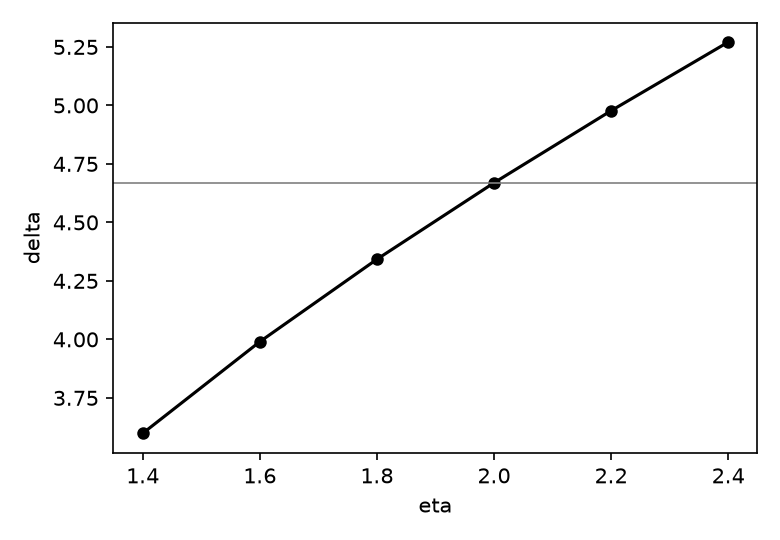
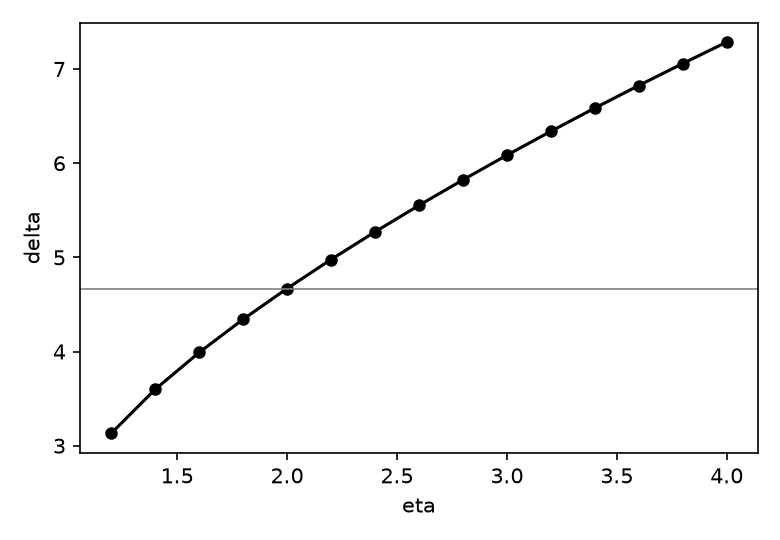
Creators: make the delta(eta) sweep converge across the full eta range
The Newton-Raphson iterates escaped the map's valid parameter range for
eta outside [1.4, 2.4], NaN-ing silently; the figure now spans eta 1.2-4
as the chapter prose requires.

diff --git a/creators/python/disc1d/fig_universality.py b/creators/python/disc1d/fig_universality.py
@@ -56,28 +56,85 @@ for f, rc, rmin, amax, name in [
 
 # -- delta(eta) via Newton-Raphson on superstable orbits ---------------------
 def superstable_r(f, df, p_max, r_start):
-    """r_p of superstable 2^p cycles via Newton-Raphson from x0 = 1/2."""
-    rc = {}
-    for p in range(p_max + 1):
+    """r_p of superstable 2^p cycles via Newton-Raphson from x0 = 1/2.
+
+    f(x, r) maxes out at f(0.5, r) = r, so the map only stays inside [0, 1]
+    while r < 1; a Newton step that overshoots past r = 1 sends the orbit
+    outside [0, 1], where |2x-1|^eta explodes under further iteration and
+    NumPy quietly hands back inf/NaN.  Also, every already-found r_q (q < p)
+    is *trivially* a root of the period-2**p condition too (a period-q orbit
+    repeats after any multiple of q steps), so a poorly chosen starting
+    guess for small p can converge right back onto it instead of the new,
+    higher-period root.  We fix both: every r_p is known a priori to lie in
+    (r_{p-1}, 1), so (a) low periods (p < 3, where the extrapolated Newton
+    guess isn't available yet) are located by bracketing + bisection on
+    that interval instead of guessing a fixed start, and (b) every Newton
+    step is clamped below 1, with a bracket/bisect fallback if the clamped
+    iteration still fails to converge inside (r_{p-1}, 1).
+    """
+    def orbit_end(m, r):
+        x = 0.5
+        for _ in range(m):
+            x = f(x, r)
+        return x
+
+    def bracket_and_bisect(m, lo, hi, n_scan=2000, refine=2):
+        # Two passes of a vectorized scan for a sign change of g(r) =
+        # X[m](r) - 0.5, each narrowing onto the bracket found by the last,
+        # to get enough resolution even when consecutive r_p are very close.
+        a, b = lo, hi
+        for stage in range(refine):
+            cand = np.linspace(a, b, n_scan)
+            if stage == 0:
+                cand = cand[1:]  # drop r=lo itself: a trivial root
+            with np.errstate(all="ignore"):
+                x = np.full_like(cand, 0.5)
+                for _ in range(m):
+                    x = f(x, cand)
+                    x = np.clip(x, -1e3, 1e3)  # keep finite for sign()
+                g = np.nan_to_num(x - 0.5, nan=0.0)
+            idx = np.where(np.diff(np.sign(g)) != 0)[0]
+            if len(idx) == 0:
+                return None
+            a, b = cand[idx[0]], cand[idx[0] + 1]
+        ga = orbit_end(m, a) - 0.5
+        for _ in range(80):
+            mid = 0.5 * (a + b)
+            gm = orbit_end(m, mid) - 0.5
+            a, ga, b = (mid, gm, b) if np.sign(gm) == np.sign(ga) else (a, ga, mid)
+        return 0.5 * (a + b)
+
+    rc = {0: 0.5}  # f(0.5, r) = r identically, so r_0 = 0.5 for every eta
+    for p in range(1, p_max + 1):
         m = 2**p
-        if p >= 3:
-            delta = (rc[p - 2] - rc[p - 3]) / (rc[p - 1] - rc[p - 2])
-            r = rc[p - 1] + (rc[p - 1] - rc[p - 2]) / delta
+        lo, hi = rc[p - 1], 1.0
+        if p < 3:
+            r, converged = None, False
         else:
-            r = r_start
-        for _ in range(100):
-            X = np.zeros(m + 1)
-            X[0] = 0.5
-            for n in range(m):
-                X[n + 1] = f(X[n], r)
-            dg = 0.0
-            for n in range(1, m + 1):
-                dg = X[n] / r + df(X[n - 1], r) * dg
-            rnew = r - (X[m] - X[0]) / dg
-            if abs(rnew - r) < 1e-13:
-                r = rnew
-                break
-            r = rnew
+            delta = (rc[p - 2] - rc[p - 3]) / (rc[p - 1] - rc[p - 2])
+            r = min(rc[p - 1] + (rc[p - 1] - rc[p - 2]) / delta, hi - 1e-13)
+            converged = False
+            with np.errstate(all="ignore"):
+                for _ in range(100):
+                    X = np.zeros(m + 1)
+                    X[0] = 0.5
+                    for n in range(m):
+                        X[n + 1] = f(X[n], r)
+                    dg = 0.0
+                    for n in range(1, m + 1):
+                        dg = X[n] / r + df(X[n - 1], r) * dg
+                    if dg == 0 or not np.isfinite(dg) or not np.isfinite(X[m]):
+                        break
+                    rnew = min(r - (X[m] - X[0]) / dg, hi - 1e-13)
+                    if abs(rnew - r) < 1e-13:
+                        r, converged = rnew, True
+                        break
+                    r = rnew
+            converged = converged and lo < r < hi
+        if not converged:
+            r = bracket_and_bisect(m, lo, hi)
+            if r is None:
+                raise FloatingPointError(f"p={p}: could not bracket a root")
         rc[p] = r
     return rc
 
@@ -91,8 +148,9 @@ for eta in np.arange(1.2, 4.01, 0.2):
         rc = superstable_r(f, df, 8, 0.9)
         deltas.append((rc[6] - rc[5]) / (rc[7] - rc[6]))
         etas.append(eta)
-    except (ZeroDivisionError, FloatingPointError, OverflowError):
-        pass
+    except (ZeroDivisionError, FloatingPointError, OverflowError) as exc:
+        print(f"fig_universality: dropping eta={eta:.2f} "
+              f"(superstable_r did not converge: {exc})")
 
 plt.figure(figsize=(5.2, 3.6))
 plt.plot(etas, deltas, "ko-", markersize=5)

diff --git a/docs/superpowers/plans/2026-08-11-disc1d-chapter.md b/docs/superpowers/plans/2026-08-11-disc1d-chapter.md
@@ -1011,28 +1011,85 @@ for f, rc, rmin, amax, name in [
 
 # -- delta(eta) via Newton-Raphson on superstable orbits ---------------------
 def superstable_r(f, df, p_max, r_start):
-    """r_p of superstable 2^p cycles via Newton-Raphson from x0 = 1/2."""
-    rc = {}
-    for p in range(p_max + 1):
+    """r_p of superstable 2^p cycles via Newton-Raphson from x0 = 1/2.
+
+    f(x, r) maxes out at f(0.5, r) = r, so the map only stays inside [0, 1]
+    while r < 1; a Newton step that overshoots past r = 1 sends the orbit
+    outside [0, 1], where |2x-1|^eta explodes under further iteration and
+    NumPy quietly hands back inf/NaN.  Also, every already-found r_q (q < p)
+    is *trivially* a root of the period-2**p condition too (a period-q orbit
+    repeats after any multiple of q steps), so a poorly chosen starting
+    guess for small p can converge right back onto it instead of the new,
+    higher-period root.  We fix both: every r_p is known a priori to lie in
+    (r_{p-1}, 1), so (a) low periods (p < 3, where the extrapolated Newton
+    guess isn't available yet) are located by bracketing + bisection on
+    that interval instead of guessing a fixed start, and (b) every Newton
+    step is clamped below 1, with a bracket/bisect fallback if the clamped
+    iteration still fails to converge inside (r_{p-1}, 1).
+    """
+    def orbit_end(m, r):
+        x = 0.5
+        for _ in range(m):
+            x = f(x, r)
+        return x
+
+    def bracket_and_bisect(m, lo, hi, n_scan=2000, refine=2):
+        # Two passes of a vectorized scan for a sign change of g(r) =
+        # X[m](r) - 0.5, each narrowing onto the bracket found by the last,
+        # to get enough resolution even when consecutive r_p are very close.
+        a, b = lo, hi
+        for stage in range(refine):
+            cand = np.linspace(a, b, n_scan)
+            if stage == 0:
+                cand = cand[1:]  # drop r=lo itself: a trivial root
+            with np.errstate(all="ignore"):
+                x = np.full_like(cand, 0.5)
+                for _ in range(m):
+                    x = f(x, cand)
+                    x = np.clip(x, -1e3, 1e3)  # keep finite for sign()
+                g = np.nan_to_num(x - 0.5, nan=0.0)
+            idx = np.where(np.diff(np.sign(g)) != 0)[0]
+            if len(idx) == 0:
+                return None
+            a, b = cand[idx[0]], cand[idx[0] + 1]
+        ga = orbit_end(m, a) - 0.5
+        for _ in range(80):
+            mid = 0.5 * (a + b)
+            gm = orbit_end(m, mid) - 0.5
+            a, ga, b = (mid, gm, b) if np.sign(gm) == np.sign(ga) else (a, ga, mid)
+        return 0.5 * (a + b)
+
+    rc = {0: 0.5}  # f(0.5, r) = r identically, so r_0 = 0.5 for every eta
+    for p in range(1, p_max + 1):
         m = 2**p
-        if p >= 3:
-            delta = (rc[p - 2] - rc[p - 3]) / (rc[p - 1] - rc[p - 2])
-            r = rc[p - 1] + (rc[p - 1] - rc[p - 2]) / delta
+        lo, hi = rc[p - 1], 1.0
+        if p < 3:
+            r, converged = None, False
         else:
-            r = r_start
-        for _ in range(100):
-            X = np.zeros(m + 1)
-            X[0] = 0.5
-            for n in range(m):
-                X[n + 1] = f(X[n], r)
-            dg = 0.0
-            for n in range(1, m + 1):
-                dg = X[n] / r + df(X[n - 1], r) * dg
-            rnew = r - (X[m] - X[0]) / dg
-            if abs(rnew - r) < 1e-13:
-                r = rnew
-                break
-            r = rnew
+            delta = (rc[p - 2] - rc[p - 3]) / (rc[p - 1] - rc[p - 2])
+            r = min(rc[p - 1] + (rc[p - 1] - rc[p - 2]) / delta, hi - 1e-13)
+            converged = False
+            with np.errstate(all="ignore"):
+                for _ in range(100):
+                    X = np.zeros(m + 1)
+                    X[0] = 0.5
+                    for n in range(m):
+                        X[n + 1] = f(X[n], r)
+                    dg = 0.0
+                    for n in range(1, m + 1):
+                        dg = X[n] / r + df(X[n - 1], r) * dg
+                    if dg == 0 or not np.isfinite(dg) or not np.isfinite(X[m]):
+                        break
+                    rnew = min(r - (X[m] - X[0]) / dg, hi - 1e-13)
+                    if abs(rnew - r) < 1e-13:
+                        r, converged = rnew, True
+                        break
+                    r = rnew
+            converged = converged and lo < r < hi
+        if not converged:
+            r = bracket_and_bisect(m, lo, hi)
+            if r is None:
+                raise FloatingPointError(f"p={p}: could not bracket a root")
         rc[p] = r
     return rc
 
@@ -1046,8 +1103,9 @@ for eta in np.arange(1.2, 4.01, 0.2):
         rc = superstable_r(f, df, 8, 0.9)
         deltas.append((rc[6] - rc[5]) / (rc[7] - rc[6]))
         etas.append(eta)
-    except (ZeroDivisionError, FloatingPointError, OverflowError):
-        pass
+    except (ZeroDivisionError, FloatingPointError, OverflowError) as exc:
+        print(f"fig_universality: dropping eta={eta:.2f} "
+              f"(superstable_r did not converge: {exc})")
 
 plt.figure(figsize=(5.2, 3.6))
 plt.plot(etas, deltas, "ko-", markersize=5)
